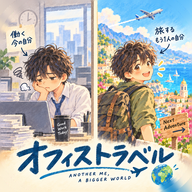
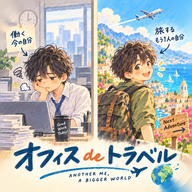
名前を「オフィスdeトラベル」に変更(ロゴ・アイコン・共有画像・規約ページ)

Changed region(s): [[0.0625, 0.7188, 0.9375, 0.9062], [0.7188, 0.7188, 0.75, 0.75]]

diff --git a/index.html b/index.html
@@ -3,14 +3,14 @@
 <head>
 <meta charset="utf-8">
 <meta name="viewport" content="width=device-width,initial-scale=1">
-<title>オフィストラベル</title>
+<title>オフィスdeトラベル</title>
 <meta name="description" content="あなたが働いている間、もう1人のあなたが本物の街を歩く。本物の地図・本物の電車・本物のお店で、毎日の日記が届くゲーム。">
-<meta property="og:type" content="website"><meta property="og:site_name" content="オフィストラベル"><meta property="og:title" content="オフィストラベル — もう1人のあなたが、本物の街を旅する"><meta property="og:description" content="あなたが働いている間、もう1人のあなたが本物の街を歩く。本物の地図・本物の電車・本物のお店で、毎日の日記が届くゲーム。"><meta property="og:url" content="https://kusayakyu-navi.com/office-travel/"><meta property="og:image" content="https://kusayakyu-navi.com/office-travel/og.png"><meta property="og:image:width" content="1200"><meta property="og:image:height" content="630"><meta property="og:locale" content="ja_JP">
-<meta name="twitter:card" content="summary_large_image"><meta name="twitter:title" content="オフィストラベル"><meta name="twitter:description" content="あなたが働いている間、もう1人のあなたが本物の街を歩く。本物の地図・本物の電車・本物のお店で、毎日の日記が届くゲーム。"><meta name="twitter:image" content="https://kusayakyu-navi.com/office-travel/og.png">
+<meta property="og:type" content="website"><meta property="og:site_name" content="オフィスdeトラベル"><meta property="og:title" content="オフィスdeトラベル — もう1人のあなたが、本物の街を旅する"><meta property="og:description" content="あなたが働いている間、もう1人のあなたが本物の街を歩く。本物の地図・本物の電車・本物のお店で、毎日の日記が届くゲーム。"><meta property="og:url" content="https://kusayakyu-navi.com/office-travel/"><meta property="og:image" content="https://kusayakyu-navi.com/office-travel/og.png"><meta property="og:image:width" content="1200"><meta property="og:image:height" content="630"><meta property="og:locale" content="ja_JP">
+<meta name="twitter:card" content="summary_large_image"><meta name="twitter:title" content="オフィスdeトラベル"><meta name="twitter:description" content="あなたが働いている間、もう1人のあなたが本物の街を歩く。本物の地図・本物の電車・本物のお店で、毎日の日記が届くゲーム。"><meta name="twitter:image" content="https://kusayakyu-navi.com/office-travel/og.png">
 <meta name="theme-color" content="#f6efe2">
 <meta name="apple-mobile-web-app-capable" content="yes">
 <meta name="apple-mobile-web-app-status-bar-style" content="default">
-<meta name="apple-mobile-web-app-title" content="オフィストラベル">
+<meta name="apple-mobile-web-app-title" content="オフィスdeトラベル">
 <link rel="manifest" href="manifest.webmanifest">
 <link rel="apple-touch-icon" sizes="180x180" href="apple-touch-icon.png?v=2">
 <link rel="icon" type="image/png" sizes="32x32" href="favicon-32.png?v=2"><link rel="icon" type="image/png" sizes="192x192" href="icon-192.png?v=2">
@@ -1599,10 +1599,10 @@ function drawReplay(){if(!RP)return;const cv=$('rpCv');if(!cv)return;const dpr=M
   c.fillStyle='rgba(255,253,247,.96)';c.beginPath();c.roundRect(16,28,W-32,104,20);c.fill();c.fillStyle='#8a9099';c.font='700 13px '+FD;const dt=new Date(RP.k);c.fillText(`${dt.getMonth()+1}月${dt.getDate()}日  ${S.name}の一日`,32,52);
   if(cap){c.fillStyle='#2a2f3a';c.font='700 16px '+FD;const L=wrapText(c,(cap.em?cap.em+' ':'')+cap.text,W-64).slice(0,3);L.forEach((ln,i)=>c.fillText(ln,32,78+i*22));}
   /* 下: 時刻・距離・お金 */
-  {const kmNow=RP.km*prog;const spentNow=RP.caps.length?S.diary.filter(e=>todayKey(e.t)===RP.k&&e.t<=tNow).reduce((a,e)=>a+(e.cost||0),0):0;c.fillStyle='rgba(42,47,58,.9)';c.beginPath();c.roundRect(16,H-112,W-32,72,20);c.fill();c.fillStyle='#fff';c.font='800 30px '+FD;c.fillText(fmtT(tNow),34,H-64);c.font='700 15px '+FD;c.fillStyle='#e9c46a';c.textAlign='right';c.fillText(kmNow.toFixed(1)+'km  ·  ¥'+fmt(spentNow),W-34,H-66);c.textAlign='left';c.fillStyle='rgba(255,255,255,.6)';c.font='600 11px '+FD;c.fillText('オフィストラベル · #もう1人の自分',34,H-50+2);}
+  {const kmNow=RP.km*prog;const spentNow=RP.caps.length?S.diary.filter(e=>todayKey(e.t)===RP.k&&e.t<=tNow).reduce((a,e)=>a+(e.cost||0),0):0;c.fillStyle='rgba(42,47,58,.9)';c.beginPath();c.roundRect(16,H-112,W-32,72,20);c.fill();c.fillStyle='#fff';c.font='800 30px '+FD;c.fillText(fmtT(tNow),34,H-64);c.font='700 15px '+FD;c.fillStyle='#e9c46a';c.textAlign='right';c.fillText(kmNow.toFixed(1)+'km  ·  ¥'+fmt(spentNow),W-34,H-66);c.textAlign='left';c.fillStyle='rgba(255,255,255,.6)';c.font='600 11px '+FD;c.fillText('オフィスdeトラベル · #もう1人の自分',34,H-50+2);}
   /* 最後: まとめ */
   if(ending){const a=Math.min(1,(el_-RP.dur-300)/600);c.fillStyle='rgba(248,241,227,'+(0.92*a)+')';c.fillRect(0,0,W,H);c.globalAlpha=a;c.textAlign='center';c.fillStyle='#2a2f3a';c.font='800 26px '+FD;c.fillText(S.name+'の今日',W/2,H*0.36);c.font='700 18px '+FD;c.fillStyle='#5b6270';c.fillText(RP.vis.length+'軒  ·  '+RP.km.toFixed(1)+'km  ·  ¥'+fmt(RP.spent),W/2,H*0.36+40);
-    const sp=chibiSprite(0);if(sp)c.drawImage(sp,W/2-42,H*0.42,84,100);c.fillStyle='#d97f5a';c.font='800 17px '+FD;c.fillText('働いている間に、もう1人の自分が旅をする',W/2,H*0.66);c.fillStyle='#5b6270';c.font='700 14px '+FD;c.fillText('オフィストラベル  kusayakyu-navi.com/office-travel',W/2,H*0.66+30);c.fillText('#もう1人の自分',W/2,H*0.66+54);c.globalAlpha=1;c.textAlign='left';
+    const sp=chibiSprite(0);if(sp)c.drawImage(sp,W/2-42,H*0.42,84,100);c.fillStyle='#d97f5a';c.font='800 17px '+FD;c.fillText('働いている間に、もう1人の自分が旅をする',W/2,H*0.66);c.fillStyle='#5b6270';c.font='700 14px '+FD;c.fillText('オフィスdeトラベル  kusayakyu-navi.com/office-travel',W/2,H*0.66+30);c.fillText('#もう1人の自分',W/2,H*0.66+54);c.globalAlpha=1;c.textAlign='left';
     if(el_>RP.dur+4500&&$('rpPlay')){$('rpPlay').style.display='';$('rpPlay').textContent='↺ もう一度';}}
   requestAnimationFrame(drawReplay);}
 /* ================= v99 ペットと暮らす ================= */
@@ -2696,9 +2696,9 @@ async function saveStoryImage(d){const W0=1080,H0=1350;const cv=document.createE
   let y=rowY+rowH+86;c.fillStyle='#2a2f3a';c.font='800 46px '+FD;const L=wrapText(c,'「'+d.line+'」',W0-144).slice(0,2);for(const ln of L){c.fillText(ln,72,y);y+=64;}
   y+=10;c.font='700 34px '+FD;c.fillStyle='#5b6270';const st=[d.vis.length+'軒',d.km.toFixed(1)+'km','¥'+fmt(d.spent)];if(d.rides.length)st.push(d.rides.slice(0,3).join('→'));c.fillText(st.join('  ·  '),72,y);
   try{const Pt=ptS();const R=RANKS[rankOf(Pt.km)];const M_=S.ms&&S.ms.day===d.k?S.ms:null;y+=58;c.font='700 30px '+FD;c.fillStyle='#a8651a';c.fillText(R[2]+' '+R[1]+'  ·  ⭐'+Pt.bal.toLocaleString()+'pt'+(M_?'  ·  今日のお題 '+M_.list.filter(x=>x.done).length+'/3':''),72,y);}catch(e){}
-  c.fillStyle='#d97f5a';c.fillRect(72,H0-104,60,6);c.fillStyle='#5b6270';c.font='700 28px '+FD;c.fillText('オフィストラベル  kusayakyu-navi.com/office-travel',72,H0-58);c.fillStyle='#8a9099';c.font='600 24px '+FD;c.textAlign='right';c.fillText('#もう1人の自分',W0-72,H0-58);c.textAlign='left';
+  c.fillStyle='#d97f5a';c.fillRect(72,H0-104,60,6);c.fillStyle='#5b6270';c.font='700 28px '+FD;c.fillText('オフィスdeトラベル  kusayakyu-navi.com/office-travel',72,H0-58);c.fillStyle='#8a9099';c.font='600 24px '+FD;c.textAlign='right';c.fillText('#もう1人の自分',W0-72,H0-58);c.textAlign='left';
   const blob=await new Promise(r=>cv.toBlob(r,'image/png'));if(!blob)throw new Error('toBlob');const file=new File([blob],'kyou-no-hanashi-'+d.k.replace(/\s/g,'-')+'.png',{type:'image/png'});
-  const text=S.name+'の今日の話「'+d.line+'」 #もう1人の自分 #オフィストラベル '+shareURL('story');track('share',{what:'story'});
+  const text=S.name+'の今日の話「'+d.line+'」 #もう1人の自分 #オフィスdeトラベル '+shareURL('story');track('share',{what:'story'});
   if(navigator.canShare&&navigator.canShare({files:[file]})){try{await navigator.share({files:[file],title:S.name+'の今日の話',text});return;}catch(e){if(e&&e.name==='AbortError')return;}}
   const a=document.createElement('a');a.href=URL.createObjectURL(blob);a.download=file.name;document.body.appendChild(a);a.click();setTimeout(()=>{URL.revokeObjectURL(a.href);a.remove();},2000);try{await navigator.clipboard.writeText(text);toast('画像を保存して、投稿の文をコピーした','var(--acc)');}catch(e){toast('画像を保存した','var(--acc)');}}
 function maybeStory(now){if(!S.setup||document.visibilityState!=='visible')return;const k=todayKey(now);if(S.storyDay===k)return;const w=jobWindow(now);const endT=w?w.en:new Date(now).setHours(21,0,0,0);if(now<endT)return;if(!$('modal').classList.contains('hidden'))return;if(S.diary.filter(e=>todayKey(e.t)===k).length<2)return;showStory(k,true);}
@@ -3367,7 +3367,7 @@ function renderPanel(){if(!tab)return;let h='';
   }
   if(tab==='more'){h+=`<h3>設定</h3><div class="grid3"><button data-tab2="teach"><i>✎</i>教える</button><button data-tab2="wish"><i>♡</i>行きたい</button><button data-tab2="friends"><i>🏮</i>なじみと<br>コレクション</button></div><div class="sec">プロフィール</div><div class="row"><div>家<small>${S.homeAddr||'サンプルの街(吉祥寺)'}${S.trip?' / いまは '+S.trip.city+' に滞在':''} / この街の店・場所 ${POIS.length}件</small></div></div>`;
     h+=`<div class="row"><div>好きなこと・性格<small>${S.persona&&S.persona.text?esc(S.persona.text.slice(0,60))+(S.persona.text.length>60?'…':'')+' → '+esc(personaSummary(S.persona)):'未記入(設定の「変える」から書けます)'}</small></div></div><div class="row"><div>設定<small>${S.name} / ${(JOBS[S.job]||JOBS.other).n} / ${V().e}${V().n} / 勤務 ${fmtHM(S.work.start)}〜${fmtHM(S.work.end)} / 好み: ${S.prefs.map(k=>PREF_LIST.find(x=>x[0]===k)[1]).join('・')}</small></div><button id="bSetup">変える</button></div>`;
-    h+=`<div class="sec">動く時間</div><div class="row"><div>${S.name}が動く時間<small>${actMode()==='always'?'24時間。疲れたら・深夜は家か宿で朝まで眠る':actMode()==='awake'?'起きている間('+fmtHM(S.active.wake??420)+'〜'+fmtHM((S.active.sleep??1440)%1440)+')':'あなたの勤務時間だけ('+fmtHM(S.work.start)+'〜'+fmtHM(S.work.end)+')'}</small></div></div><div class="actm">${[['always','24時間'],['awake','起きている間'],['work','勤務時間だけ']].map(([k,l])=>`<button data-actm="${k}" class="${actMode()===k?'on':''}">${l}</button>`).join('')}</div>${actMode()==='awake'?`<div class="mgrid"><label>起きる<input id="actWake" type="time" value="${fmtHM(S.active.wake??420)}"></label><label>寝る<input id="actSleep" type="time" value="${fmtHM((S.active.sleep??1440)%1440)}"></label></div>`:''}<div class="sec">Googleマップ</div><div class="row"><div>「行ってみたい」を取り込む<small>Google データエクスポート(takeout.google.com)で「保存済み」か「マップ(マイプレイス)」を書き出し、出てきた CSV(例: 行ってみたい.csv)か Saved Places.json を選んでください。この街にある店は行きたいリストへ。ほかの街の店は、そこへ行った時に探します。${(S.gwish||[]).length?'<br>読み込み済み '+S.gwish.length+'件 / 見つかった '+S.gwish.filter(w=>w.done).length+'件':''}</small></div><button id="bGmaps">ファイルを選ぶ</button></div><div class="row"><div>ホットペッパーグルメ<small>${hpKey()?'使えています。口コミ画面にお店の一言・予算・クーポンが出ます。':'無料の鍵(webservice.recruit.co.jp で登録)を貼ると、口コミ画面にお店の一言・予算・営業時間・クーポンが出ます。'}</small></div><button id="bHp">${S.keys.hotpepper?'鍵を変える':'鍵を貼る'}</button></div><div class="row"><div>口コミ<small>${placesKey()?(ADS.places&&ADS.places.key?'運営者の設定で使えています。':'この端末に貼った鍵で使えています。')+'店の「口コミ」ボタンで、Google の最新の評価・営業状況・口コミが出ます。':'Google Places API (New) の鍵を貼ると、アプリの中で口コミが見られます。Google Cloud で「Places API (New)」を有効にし、ブラウザ用の鍵に HTTP リファラー制限(kusayakyu-navi.com/*)を付けてください。見るたびに Google の料金がかかります。'}</small></div><span><button id="bPlaces">${S.keys.places?'鍵を変える':'鍵を貼る'}</button>${placesKey()?' <button id="bPlacesTest">試す</button>':''}</span></div><div class="sec">祝日</div><div class="row"><div>祝日は仕事が休み<small>${holidayOf(Date.now()+0)?"今日は"+esc(holidayOf(Date.now()))+"。":""}休みの日は${esc(S.name)}も遠出しやすくなります</small></div><button id="bHoliOff">${S.holiOff===false?"祝日も仕事":"休みにする"}</button></div><div class="sec">きせかえ・もようがえ</div><div class="row"><div>見た目と部屋<small>帽子・メガネ・羽織り・壁紙・家具・ねこ。無料・お小遣い・応援パック</small></div><button id="bOpenShop">ひらく</button></div><div class="sec">友だちに教える</div><div class="row"><div>オフィストラベルを教える<small>共有シートでLINE・X・メールなどへ。リンクだけが送られます(あなたの記録や家の場所は送りません)。</small></div><button id="bShareApp">教える</button></div><div class="sec">保存</div><div class="row"><div>この端末の記録 <b class="autoOn">自動保存中</b><small id="svInfo">確認中…</small></div><button id="bSaveNow">いま保存</button></div><div class="row"><div>最初からやり直す<small>日記・行きたい・お小遣い・畑をぜんぶ消して、初期設定からやり直します。残したい時は先に「この人を別の端末へ」で引き継ぎコードを。</small></div><button id="bReset" class="ng">やり直す</button></div><div class="sec">データ</div><div class="row"><div>飛行機(国内 ODPT)<small>公共交通オープンデータセンター(ODPT)のアクセストークンを貼ると、JAL・ANA国内線の実ダイヤで飛ぶ。${S.keys.odpt?(FLIGHTS?'便データ '+FLIGHTS.length+'件 読み込み済み':'鍵あり(次の遠出で読み込み)'):'未設定(それまでは鉄道だけ)'}</small></div><button id="bOdpt">${S.keys.odpt?'変更':'鍵を貼る'}</button></div>
+    h+=`<div class="sec">動く時間</div><div class="row"><div>${S.name}が動く時間<small>${actMode()==='always'?'24時間。疲れたら・深夜は家か宿で朝まで眠る':actMode()==='awake'?'起きている間('+fmtHM(S.active.wake??420)+'〜'+fmtHM((S.active.sleep??1440)%1440)+')':'あなたの勤務時間だけ('+fmtHM(S.work.start)+'〜'+fmtHM(S.work.end)+')'}</small></div></div><div class="actm">${[['always','24時間'],['awake','起きている間'],['work','勤務時間だけ']].map(([k,l])=>`<button data-actm="${k}" class="${actMode()===k?'on':''}">${l}</button>`).join('')}</div>${actMode()==='awake'?`<div class="mgrid"><label>起きる<input id="actWake" type="time" value="${fmtHM(S.active.wake??420)}"></label><label>寝る<input id="actSleep" type="time" value="${fmtHM((S.active.sleep??1440)%1440)}"></label></div>`:''}<div class="sec">Googleマップ</div><div class="row"><div>「行ってみたい」を取り込む<small>Google データエクスポート(takeout.google.com)で「保存済み」か「マップ(マイプレイス)」を書き出し、出てきた CSV(例: 行ってみたい.csv)か Saved Places.json を選んでください。この街にある店は行きたいリストへ。ほかの街の店は、そこへ行った時に探します。${(S.gwish||[]).length?'<br>読み込み済み '+S.gwish.length+'件 / 見つかった '+S.gwish.filter(w=>w.done).length+'件':''}</small></div><button id="bGmaps">ファイルを選ぶ</button></div><div class="row"><div>ホットペッパーグルメ<small>${hpKey()?'使えています。口コミ画面にお店の一言・予算・クーポンが出ます。':'無料の鍵(webservice.recruit.co.jp で登録)を貼ると、口コミ画面にお店の一言・予算・営業時間・クーポンが出ます。'}</small></div><button id="bHp">${S.keys.hotpepper?'鍵を変える':'鍵を貼る'}</button></div><div class="row"><div>口コミ<small>${placesKey()?(ADS.places&&ADS.places.key?'運営者の設定で使えています。':'この端末に貼った鍵で使えています。')+'店の「口コミ」ボタンで、Google の最新の評価・営業状況・口コミが出ます。':'Google Places API (New) の鍵を貼ると、アプリの中で口コミが見られます。Google Cloud で「Places API (New)」を有効にし、ブラウザ用の鍵に HTTP リファラー制限(kusayakyu-navi.com/*)を付けてください。見るたびに Google の料金がかかります。'}</small></div><span><button id="bPlaces">${S.keys.places?'鍵を変える':'鍵を貼る'}</button>${placesKey()?' <button id="bPlacesTest">試す</button>':''}</span></div><div class="sec">祝日</div><div class="row"><div>祝日は仕事が休み<small>${holidayOf(Date.now()+0)?"今日は"+esc(holidayOf(Date.now()))+"。":""}休みの日は${esc(S.name)}も遠出しやすくなります</small></div><button id="bHoliOff">${S.holiOff===false?"祝日も仕事":"休みにする"}</button></div><div class="sec">きせかえ・もようがえ</div><div class="row"><div>見た目と部屋<small>帽子・メガネ・羽織り・壁紙・家具・ねこ。無料・お小遣い・応援パック</small></div><button id="bOpenShop">ひらく</button></div><div class="sec">友だちに教える</div><div class="row"><div>オフィスdeトラベルを教える<small>共有シートでLINE・X・メールなどへ。リンクだけが送られます(あなたの記録や家の場所は送りません)。</small></div><button id="bShareApp">教える</button></div><div class="sec">保存</div><div class="row"><div>この端末の記録 <b class="autoOn">自動保存中</b><small id="svInfo">確認中…</small></div><button id="bSaveNow">いま保存</button></div><div class="row"><div>最初からやり直す<small>日記・行きたい・お小遣い・畑をぜんぶ消して、初期設定からやり直します。残したい時は先に「この人を別の端末へ」で引き継ぎコードを。</small></div><button id="bReset" class="ng">やり直す</button></div><div class="sec">データ</div><div class="row"><div>飛行機(国内 ODPT)<small>公共交通オープンデータセンター(ODPT)のアクセストークンを貼ると、JAL・ANA国内線の実ダイヤで飛ぶ。${S.keys.odpt?(FLIGHTS?'便データ '+FLIGHTS.length+'件 読み込み済み':'鍵あり(次の遠出で読み込み)'):'未設定(それまでは鉄道だけ)'}</small></div><button id="bOdpt">${S.keys.odpt?'変更':'鍵を貼る'}</button></div>
       <div class="row"><div>国際線の時刻表<small>どれか1つで飛べる。AirLabs(airlabs.co、無料枠 月1,000回)か AeroDataBox(RapidAPI、無料枠あり)。${S.keys.airlabs?'AirLabs 鍵あり':S.keys.aerodatabox?'AeroDataBox 鍵あり':'未設定'}</small></div><span><button id="bAirlabs">${S.keys.airlabs?'AirLabs 変更':'AirLabs'}</button> <button id="bAdb">${S.keys.aerodatabox?'AeroDataBox 変更':'AeroDataBox'}</button></span></div>
       <div class="row"><div>飛行機(Aviasales の便データ)<small>実在の便・出発時刻・最安値。国内も海外も。データは GitHub が6時間ごとに取り直す。${FLIGHTS_STATIC?'最終更新 '+esc(String(FLIGHTS_STATIC.updated).replace('T',' ').slice(0,16))+'・'+FLIGHTS_STATIC.pairs.length+'路線':FLIGHTS_STATIC===false?'まだ届いていない(GitHub の TP_TOKEN を設定すると始まる)':'確認中'} / 紹介 marker ${S.keys.travelpayouts?'あり':'未設定'}</small></div><span><button id="bTpM">${S.keys.travelpayouts?'marker 変更':'marker'}</button> <button id="bTp" style="font-size:11px">token(直接)</button></span></div>`;
     h+=`<div class="sec">収益化</div><div class="row"><div>広告について<small>このアプリは広告とアフィリエイト(「PR」と付いたリンク)の収益で運営しています。${S.name}の行き先は広告で変わりません。<a href="privacy.html" target="_blank" rel="noopener">プライバシーポリシー</a></small></div></div><div class="row"><div>アフィリエイト(自分用)<small>運営者の設定(data/ads.json)が優先されます。自分で試す場合だけ: 楽天アフィリエイトID、じゃらん(バリューコマース)のsid/pid。${S.keys.rakutenAff?'楽天: 設定済 ':''}${S.keys.vcSid?'じゃらん: 設定済':''}</small></div><button id="bAff">設定</button></div>`;
@@ -3382,7 +3382,7 @@ function renderPanel(){if(!tab)return;let h='';
       <div class="row"><div>ホーム画面に追加<small>${window.matchMedia&&matchMedia('(display-mode: standalone)').matches?'アプリとして開いている':'ブラウザのメニューから「ホーム画面に追加」。全画面で開ける'}</small></div>${window.__installPrompt?'<button id="bInstall">追加する</button>':''}</div>
       <div class="row"><div style="color:var(--ng)">データを消す</div><button id="bReset">消去</button></div>`;
     h+='<div class="sec">データの出典</div><div class="note">地図・店: © OpenStreetMap contributors / 乗換: Transitous / 海外の見どころ: <a href="https://en.wikivoyage.org/" target="_blank" rel="noopener">Wikivoyage</a>(CC BY-SA 4.0) / 国の情報: Wikidata / 安全情報: 外務省海外安全ホームページ / 地震: 気象庁 / 祝日: holidays-jp / 市区町村: 国土地理院 / 為替: <a href="https://www.exchangerate-api.com" target="_blank" rel="noopener">Rates By Exchange Rate API</a> / 写真: Wikimedia Commons / 観光地の説明: Wikipedia 日本語版(CC BY-SA 4.0) / 郷土料理: 農林水産省「うちの郷土料理」 / 宿: <a href="https://webservice.rakuten.co.jp/" target="_blank" rel="noopener">Supported by Rakuten Developers</a></div>';
-    h+='<div class="note">版: v102 (2026-09-19)</div>';
+    h+='<div class="note">版: v103 (2026-10-01)</div>';
     h+='<div class="note">地図と店: © OpenStreetMap contributors(ODbL)。店の人気メニューや口コミは「Googleマップで開く」から。</div>';}
   panel.innerHTML='<button class="pclose" id="pClose" title="閉じる">×</button>'+h;setTimeout(()=>{try{paginatePanel();}catch(e){console.warn('pg',e);}try{fillAds(panel);}catch(e){}},0);$('pClose').onclick=()=>openTab(tab);
   const fvEl=$('field');if(fvEl){fvEl.addEventListener('click',e=>{const r=fvEl.getBoundingClientRect();harvestAt(e.clientX-r.left);});}
@@ -3466,7 +3466,7 @@ function setupWizard(){const box=$('mbox');if(!box||!box.classList.contains('set
   nav.querySelectorAll('.wzDots i').forEach(d=>d.onclick=()=>{const k=+d.dataset.i;if(k<=i)show(k);});box.classList.add('wzOn');show(0);}
 function showSetup(){const days='日月火水木金土';
   mbox.classList.add('setup');
-  mbox.innerHTML=`<div class="setupHead"><svg id="sLookPrev" viewBox="150 340 300 240" width="150" height="120"></svg><div class="ttl"><h2>オフィストラベル</h2><p>あなたが働いている間、もう1人のあなたが本物の街を歩きます。仕事の"収穫"がお小遣いになります。</p></div></div>
+  mbox.innerHTML=`<div class="setupHead"><svg id="sLookPrev" viewBox="150 340 300 240" width="150" height="120"></svg><div class="ttl"><h2>オフィスdeトラベル</h2><p>あなたが働いている間、もう1人のあなたが本物の街を歩きます。仕事の"収穫"がお小遣いになります。</p></div></div>
    <section class="sc zipMode" id="scHome"><h3><i>1</i>家</h3><div class="zipBox"><label for="sZip">郵便番号</label><div class="zipRow"><span class="zpre">〒</span><input id="sZip" inputmode="numeric" autocomplete="postal-code" maxlength="8" placeholder="123-4567"><button id="sZipGo" type="button">探す</button></div><label for="sBan">番地・建物 <small>(わかれば。家の位置が正確になります)</small></label><input id="sBan" autocomplete="address-line2" placeholder="1-2-3"><a href="#" id="sAltMode">郵便番号がわからない時は、住所や駅名で探す</a></div><div class="g"><span class="altLbl">住所</span><span><span class="inl"><input id="sAddr" autocomplete="off" placeholder="例: 〒123-4567 1-2-3 / ○○県○○市○○1-2-3" value="${S.homeAddr||''}"><button id="sFind" type="button">探す</button></span><div id="sCands" style="margin-top:4px;text-align:left"></div><small>郵便番号・住所・駅名のどれでも。郵便番号のあとに番地を続けると家の位置が正確になります。地図と店は OpenStreetMap から取り込みます(1〜2分)。${typeof KICHI!=='undefined'?'<a href="#" id="sSample" style="color:var(--ad)">サンプルの街(吉祥寺)で試す</a>':''}</small></span></div></section>
    <section class="sc"><h3><i>2</i>名前と見た目</h3><div class="g"><span>名前</span><input id="sName" value="${S.name}" maxlength="12" style="width:160px">
      <span>髪型</span><span class="hairGrid" id="sHairG">${Object.entries(HAIRS).map(([k,v])=>`<button type="button" data-hair="${k}" title="${v}"><svg viewBox="188 346 104 112"></svg><small>${v}</small></button>`).join('')}</span><select id="sHair" style="display:none">${Object.entries(HAIRS).map(([k,v])=>`<option value="${k}">${v}</option>`).join('')}</select>
@@ -3610,14 +3610,14 @@ async function resumeFromStore(hadLocal,town){
     if(ta&&ta.pois){clearTimeout(window.__reTown);initTown(ta);POIS=ta.pois;homeSig='';try{renderHome(true);}catch(e){}}}}
 /* はじめての人の最初の画面 */
 function showWelcome(){let el=$('welcome');if(!el){el=document.createElement('div');el.id='welcome';document.body.appendChild(el);}
-  el.innerHTML=`<div class="wcIn"><img class="wcArt" src="icon-512.png" alt="オフィストラベル"><h1>オフィストラベル</h1><p class="wcLead">あなたが働いている間、<br>もう1人のあなたが本物の街を歩く。</p>
+  el.innerHTML=`<div class="wcIn"><img class="wcArt" src="icon-512.png" alt="オフィスdeトラベル"><h1>オフィスdeトラベル</h1><p class="wcLead">あなたが働いている間、<br>もう1人のあなたが本物の街を歩く。</p>
     <ul class="wcList"><li><i>🗺</i><span><b>本物の地図・本物の電車</b>近所の実在のお店へ。遠くへは実際のダイヤで</span></li><li><i>📔</i><span><b>毎日の日記が届く</b>どこで何を食べたか、写真つきで</span></li><li><i>🌱</i><span><b>がんばりがお小遣いに</b>仕事の時間が畑で実る</span></li></ul>
     <button class="wcGo" id="wcStart">はじめる</button>${typeof KICHI!=='undefined'?'<button class="wcTry" id="wcTry">まず見てみる(サンプルの街)</button>':''}<small class="wcNote">登録不要・記録はこの端末の中だけ</small></div>`;
   el.classList.add('on');$('modal').classList.add('hidden');
   $('wcStart').onclick=()=>{el.classList.remove('on');showSetup();};
   const tr=$('wcTry');if(tr)tr.onclick=()=>{el.classList.remove('on');showSetup();setTimeout(()=>{try{const sm=$('sSample');if(sm)sm.click();const ok=$('sOk');if(ok)ok.click();}catch(e){console.warn('try',e);}},60);};}
 /* 友だちに教える */
-async function shareApp(){track('share',{what:'app'});const data={title:'オフィストラベル',text:'働いている間、もう1人の自分が本物の街を歩くアプリ。'+(S.setup&&S.diary.length?S.name+'は今日も出かけてる。':''),url:shareURL('invite')};
+async function shareApp(){track('share',{what:'app'});const data={title:'オフィスdeトラベル',text:'働いている間、もう1人の自分が本物の街を歩くアプリ。'+(S.setup&&S.diary.length?S.name+'は今日も出かけてる。':''),url:shareURL('invite')};
   try{if(navigator.share){await navigator.share(data);return;}}catch(e){if(e&&e.name==='AbortError')return;}
   try{await navigator.clipboard.writeText(data.text+' '+data.url);toast('リンクをコピーした。LINEやXに貼ってね','var(--acc)');}catch(e){showText('このリンクを送ってください',data.url);}}
 (function boot(){try{loadAds();}catch(e){}

diff --git a/world.html b/world.html
@@ -3,7 +3,7 @@
 <head>
 <meta charset="utf-8">
 <meta name="viewport" content="width=device-width,initial-scale=1">
-<title>オフィストラベル - 試作</title>
+<title>オフィスdeトラベル - 試作</title>
 <style>
   :root{--bg:#0e1420;--panel:rgba(15,20,32,.92);--fg:#f2f4f8;--dim:#9aa4b8;--acc:#ffcc4d;--ok:#6ee7a1;--ng:#ff7b7b;--ad:#7cc4ff;}
   *{box-sizing:border-box}
@@ -47,7 +47,7 @@
   <span id="boost" class="badge boost hidden">臨時列車 ×2</span>
   <span id="region" class="badge"></span>
   <span id="dist" class="badge"></span>
-  <span class="badge" style="color:var(--dim)">オフィストラベル</span>
+  <span class="badge" style="color:var(--dim)">オフィスdeトラベル</span>
 </div>
 <div id="btns">
   <button id="bBuild">建設</button>
@@ -311,7 +311,7 @@ function renderPanel(){if(!tab)return;let h='';
     h+=`<div class="row"><div>今日の記録<small>移動 ${fmt(tb.dist)}km / 到着 ${tb.places}都市 / 収入 ¥${fmt(tb.money)} / 乗客 ${fmt(tb.pass)}人</small></div></div>`;
     h+=`<div class="row"><div>通算<small>走行 ${fmt(S.dist)}km(地球 ${(S.dist/40075).toFixed(2)}周ぶん) / 乗客 ${fmt(S.pass)}人 / 運行 ${S.trips}本</small></div></div>`;
     h+='<div style="margin-top:6px;font-size:12px">'+(S.log.length?S.log.slice().reverse().slice(0,40).map(e=>`<div style="padding:2px 0;border-bottom:1px solid rgba(255,255,255,.05)"><span style="color:var(--dim)">${fmtTime(e.t)}</span> ${e.text}</div>`).join(''):'<div class="note">まだ出来事はありません。走らせておくと溜まります。</div>')+'</div>';}
-  if(tab==='more'){h+='<h3>オフィストラベル(試作)</h3>';
+  if(tab==='more'){h+='<h3>オフィスdeトラベル(試作)</h3>';
     h+=`<div class="row"><div>家と勤務時間<small>${S.home}の家 / ${S.work.days.map(d=>'日月火水木金土'[d]).join('')} ${fmtHM(S.work.start)}〜${fmtHM(S.work.end)}</small></div><button id="bSetup">設定</button></div>`;
     h+=`<div class="row"><div>もう1人の自分の名前<small>現在: ${S.alt.name}</small></div><button id="bName">変える</button></div>`;
     h+=`<div class="row"><div>小窓で開く<small>横長の別ウィンドウで表示(画面下に置く用)</small></div><button id="bPop">開く</button></div>`;
@@ -348,7 +348,7 @@ function watchAd(cb){if(S.adFree){cb();return;}
 
 /* おかえりモーダル */
 function showSetup(){const W=S.work;const days='日月火水木金土';
-  mbox.innerHTML=`<h2>オフィストラベル</h2><p>あなたが働いている間、${S.alt.name}が家から旅に出ます。電車・新幹線・飛行機、実際の所要時間で。</p>
+  mbox.innerHTML=`<h2>オフィスdeトラベル</h2><p>あなたが働いている間、${S.alt.name}が家から旅に出ます。電車・新幹線・飛行機、実際の所要時間で。</p>
    <div style="text-align:left;display:grid;grid-template-columns:auto 1fr;gap:6px 10px;align-items:center;margin:6px 0">
    <span>家</span><select id="sHome">${HOMES.map(h=>`<option ${h===S.home?'selected':''}>${h}</option>`).join('')}</select>
    <span>勤務</span><span><input id="sStart" type="time" value="${fmtHM(W.start)}"> 〜 <input id="sEnd" type="time" value="${fmtHM(W.end)}"></span>

diff --git a/privacy.html b/privacy.html
@@ -1,7 +1,7 @@
-<!doctype html><html lang="ja"><head><meta charset="utf-8"><meta name="viewport" content="width=device-width,initial-scale=1"><title>プライバシーポリシー | オフィストラベル</title>
+<!doctype html><html lang="ja"><head><meta charset="utf-8"><meta name="viewport" content="width=device-width,initial-scale=1"><title>プライバシーポリシー | オフィスdeトラベル</title>
 <style>:root{--bg:#f7f1e6;--ink:#2a2f3a;--dim:#6b6f78}body{margin:0;background:var(--bg);color:var(--ink);font:15px/1.8 system-ui,-apple-system,"Hiragino Sans","Noto Sans JP",sans-serif}main{max-width:720px;margin:0 auto;padding:28px 16px 60px}h1{font-size:22px}h2{font-size:17px;margin-top:28px}small{color:var(--dim)}a{color:#c8603c}</style></head>
 <body><main>
-<h1>プライバシーポリシー</h1><small>オフィストラベル(kusayakyu-navi.com/office-travel/)</small>
+<h1>プライバシーポリシー</h1><small>オフィスdeトラベル(kusayakyu-navi.com/office-travel/)</small>
 <h2>保存するデータ</h2><p>家の場所・名前・日記・お小遣いなどのデータは、お使いのブラウザの中(localStorage)にだけ保存します。運営者のサーバーには送りません。</p>
 <h2>外部サービスへの問い合わせ</h2><p>地図・店・経路・天気などを調べるため、次のサービスに位置(緯度経度や住所の文字)を送ることがあります: 楽天ウェブサービス(国内の宿)、Wikipedia、OpenStreetMap(Overpass・経路検索 routing.openstreetmap.de)、OpenFreeMap、Transitous、国土地理院、zipcloud、気象庁、Open-Meteo、Wikimedia Commons。</p>
 <h2>広告について</h2><p>このアプリは広告とアフィリエイトの収益で運営しています。「PR」と表示したリンク(楽天、バリューコマース経由のじゃらん・ホットペッパー、Travelpayouts 経由の Aviasales・KKday・Klook・Trip.com・Airalo・Kiwitaxi など)から予約・購入があると、運営者に報酬が入ることがあります。アプリの中の行き先や日記の内容は、広告によって変わりません。</p>

diff --git a/tokushoho.html b/tokushoho.html
@@ -1,10 +1,10 @@
-<!doctype html><html lang="ja"><head><meta charset="utf-8"><meta name="viewport" content="width=device-width,initial-scale=1"><title>特定商取引法に基づく表記 | オフィストラベル</title>
+<!doctype html><html lang="ja"><head><meta charset="utf-8"><meta name="viewport" content="width=device-width,initial-scale=1"><title>特定商取引法に基づく表記 | オフィスdeトラベル</title>
 <style>:root{--bg:#f7f1e6;--ink:#2a2f3a;--dim:#6b6f78;--line:#e3dccb}body{margin:0;background:var(--bg);color:var(--ink);font:15px/1.8 system-ui,-apple-system,"Hiragino Sans","Noto Sans JP",sans-serif}main{max-width:720px;margin:0 auto;padding:28px 16px 60px}h1{font-size:22px}small{color:var(--dim)}a{color:#c8603c}
 dl{display:grid;grid-template-columns:minmax(110px,30%) 1fr;margin:18px 0;border-top:1px solid var(--line)}dt,dd{margin:0;padding:12px 8px;border-bottom:1px solid var(--line)}dt{font-weight:700}@media(max-width:520px){dl{grid-template-columns:1fr}dt{border-bottom:0;padding-bottom:0}}</style></head>
 <body><main>
-<h1>特定商取引法に基づく表記</h1><small>オフィストラベル(kusayakyu-navi.com/office-travel/)の「応援パック」について</small>
+<h1>特定商取引法に基づく表記</h1><small>オフィスdeトラベル(kusayakyu-navi.com/office-travel/)の「応援パック」について</small>
 <dl>
-<dt>販売事業者(運営者)</dt><dd>オフィストラベル運営者(個人)。氏名は、請求があれば遅滞なく開示します。</dd>
+<dt>販売事業者(運営者)</dt><dd>オフィスdeトラベル運営者(個人)。氏名は、請求があれば遅滞なく開示します。</dd>
 <dt>所在地</dt><dd>請求があれば遅滞なく開示します。</dd>
 <dt>電話番号</dt><dd>請求があれば遅滞なく開示します。</dd>
 <dt>お問い合わせ</dt><dd><a href="https://github.com/kitsunefox-code/office-travel/issues" target="_blank" rel="noopener">GitHub の Issues</a>、または購入時に届く決済サービス(Lemon Squeezy)からのメールに返信してください。上記の開示のご請求もこちらからどうぞ。</dd>

diff --git a/sw.js b/sw.js
@@ -1,9 +1,9 @@
-/* オフィストラベル service worker
+/* オフィスdeトラベル service worker
    - 本体(index.html 等)は「まずネット、だめならキャッシュ」: 新しい版がすぐ届く。電波が無くても部屋までは開ける
    - data/ 配下(便のデータ・街の初期データ)は「まずネット、だめならキャッシュ」
    - 他サイト(地図タイル・乗換案内・天気)は触らない
 */
-const VER='ot-v102';
+const VER='ot-v103';
 const SHELL=['./','index.html','manifest.webmanifest','icon-192.png','icon-512.png','data/kichijoji.js'];
 self.addEventListener('install',e=>{e.waitUntil(caches.open(VER).then(c=>c.addAll(SHELL).catch(()=>{})).then(()=>self.skipWaiting()));});
 self.addEventListener('activate',e=>{e.waitUntil(caches.keys().then(ks=>Promise.all(ks.filter(k=>k!==VER).map(k=>caches.delete(k)))).then(()=>self.clients.claim()));});

diff --git a/README.md b/README.md
@@ -1,4 +1,4 @@
-# オフィストラベル (試作)
+# オフィスdeトラベル (試作)
 
 働いている間、もう1人の自分が家のまわりを歩き、食べ、旅をする。仕事の"収穫"がお小遣いになる。
 
